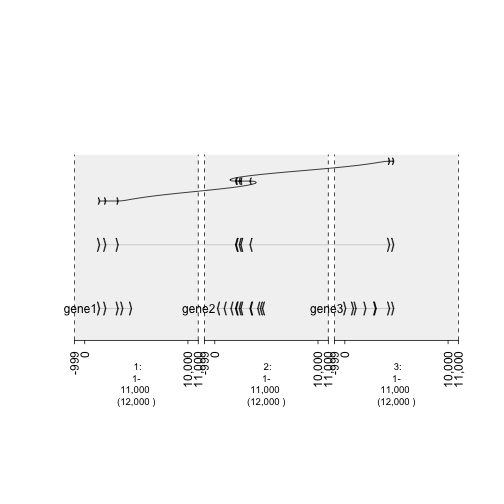
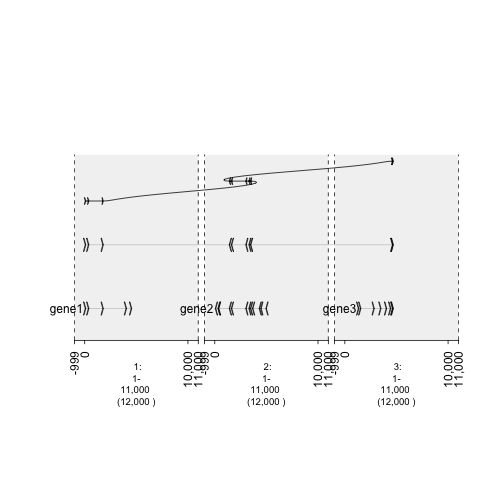
edit rtdocs

diff --git a/rtdocs/vignetteHotspots/vignetteHotspots.rst b/rtdocs/vignetteHotspots/vignetteHotspots.rst
@@ -15,50 +15,9 @@ To prepare a data set that illustrates the draw.paths parameter, a GRangesList s
     
 
     gene1 = sort(sample(gUtils::gr.tile(gUtils::parse.gr('1:1-5e3+'), 50), 5))
-
-
-::
-
-    ## Warning in hg_seqlengths(): hg_seqlengths: supply genome
-    ## seqlengths or set default with env variable DEFAULT_BSGENOME (e.g.
-    ## Sys.setenv(DEFAULT_BSGENOME = "BSgenome.Hsapiens.UCSC.hg19::Hsapiens").
-    ## DEFAULT_BSGENOME can also be set to a path or URL of a tab delimited text
-    ## *.chrom.sizes file
-
-
-.. sourcecode:: r
-    
-
     gene2 = rev(sort(sample(gUtils::gr.tile(gUtils::parse.gr('2:1-5e3-'), 50), 12)))
-
-
-::
-
-    ## Warning in hg_seqlengths(): hg_seqlengths: supply genome
-    ## seqlengths or set default with env variable DEFAULT_BSGENOME (e.g.
-    ## Sys.setenv(DEFAULT_BSGENOME = "BSgenome.Hsapiens.UCSC.hg19::Hsapiens").
-    ## DEFAULT_BSGENOME can also be set to a path or URL of a tab delimited text
-    ## *.chrom.sizes file
-
-
-.. sourcecode:: r
-    
-
     gene3 = sort(sample(gUtils::gr.tile(gUtils::parse.gr('3:1-5e3+'), 50), 8))
-
-
-::
-
-    ## Warning in hg_seqlengths(): hg_seqlengths: supply genome
-    ## seqlengths or set default with env variable DEFAULT_BSGENOME (e.g.
-    ## Sys.setenv(DEFAULT_BSGENOME = "BSgenome.Hsapiens.UCSC.hg19::Hsapiens").
-    ## DEFAULT_BSGENOME can also be set to a path or URL of a tab delimited text
-    ## *.chrom.sizes file
-
-
-.. sourcecode:: r
     
-
     ##Create a column that keeps a counter of the exon number.
     
     gene1$exon = 1:length(gene1)
@@ -69,72 +28,20 @@ To prepare a data set that illustrates the draw.paths parameter, a GRangesList s
     grl = GRangesList(gene1 = gene1, gene2 = gene2, gene3 = gene3)
     
     gt.genes = gTrack(grl)
-
-
-::
-
-    ## Warning in `[<-`(`*tmp*`, null.ix, value = list(<S4 object of class
-    ## structure("GRangesList", package = "GenomicRanges")>)): implicit list
-    ## embedding of S4 objects is deprecated
-
-
-.. sourcecode:: r
     
-
     ## Plot two graphs, one with and one without the draw.paths parameter. 
     fusion = GRangesList(c(grl$gene1[1:3], grl$gene2[5:9], grl$gene3[7:8]))
     gt.fusion = gTrack(fusion, draw.paths = FALSE)
-
-
-::
-
-    ## Warning in `[<-`(`*tmp*`, null.ix, value = list(<S4 object of class
-    ## structure("GRangesList", package = "GenomicRanges")>)): implicit list
-    ## embedding of S4 objects is deprecated
-
-
-.. sourcecode:: r
-    
-
     gt.fusion.o = gTrack(fusion, draw.paths = TRUE)
-
-
-::
-
-    ## Warning in `[<-`(`*tmp*`, null.ix, value = list(<S4 object of class
-    ## structure("GRangesList", package = "GenomicRanges")>)): implicit list
-    ## embedding of S4 objects is deprecated
-
-
-.. sourcecode:: r
     
-
     ## separating the windows for the graph. 
     win = gUtils::parse.gr(c('1:1-1e4', '2:1-1e4', '3:1-1e4'))
-
-
-::
-
-    ## Warning in hg_seqlengths(): hg_seqlengths: supply genome
-    ## seqlengths or set default with env variable DEFAULT_BSGENOME (e.g.
-    ## Sys.setenv(DEFAULT_BSGENOME = "BSgenome.Hsapiens.UCSC.hg19::Hsapiens").
-    ## DEFAULT_BSGENOME can also be set to a path or URL of a tab delimited text
-    ## *.chrom.sizes file
-
 
 
 .. sourcecode:: r
     
 
     plot(c(gt.genes, gt.fusion, gt.fusion.o), win +1e3)
-
-
-::
-
-    ## Warning in `[<-`(`*tmp*`, null.ix, value = list(<S4 object of class
-    ## structure("GRangesList", package = "GenomicRanges")>, : implicit list
-    ## embedding of S4 objects is deprecated
-
 
 .. figure:: figure/-plotList-1.png
     :alt: plot of chunk -plotList
